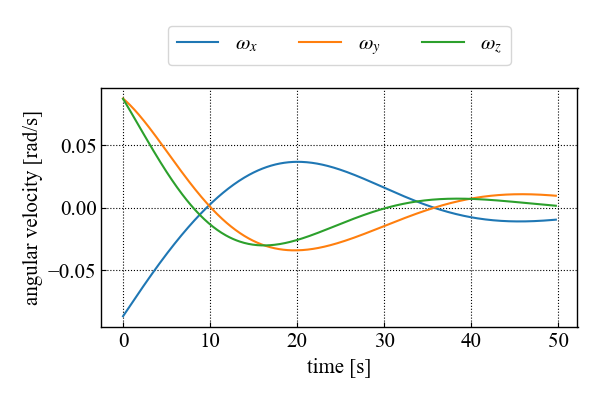
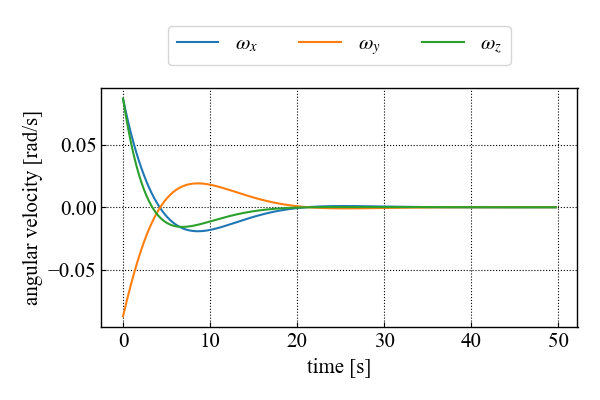
random omega

diff --git a/sac/train.py b/sac/train.py
@@ -483,6 +483,7 @@ def env_adaptive():
     print( "the multi is :" + str(env.multi))
     r = 0
     qe = np.empty((0,4))
+    R = np.empty((0,1))
     q = np.empty((0,4))
     w = np.empty((0,3))
     actions = np.empty((0,3))
@@ -512,8 +513,9 @@ def env_adaptive():
         q=np.append(q,next_state[:4].reshape(1,-1),axis=0)
         qe=np.append(qe,next_error_state[:4].reshape(1,-1),axis=0)
         w=np.append(w,next_error_state[8:11].reshape(1,-1),axis=0)
-        r_hist = np.append(r_hist, np.array([env.r1,env.r2,env.r3,env.r4]).reshape(1,-1),axis=0)
+        r_hist = np.append(r_hist, -np.array([env.r1,env.r2,env.r3,env.r4]).reshape(1,-1),axis=0)
         r += reward
+        R = np.append(R,reward)
     #----------------control law (Adaptive controller)-----------------------
         W = next_error_state[8:11]
         x1 = next_error_state[1:4]
@@ -646,7 +648,8 @@ def env_adaptive():
     plt.plot(np.arange(max_steps-1)*dt, r_hist[:,1],label = r"$\omega$ pnlty")
     plt.plot(np.arange(max_steps-1)*dt, r_hist[:,2],label = r"$\tau$ pnlty")
     plt.plot(np.arange(max_steps-1)*dt, r_hist[:,3],label = r"$\Delta\tau$ pnlty")
-    plt.plot(np.arange(max_steps-1)*dt, np.sum(r_hist,axis = 1),label = r"$toal$",linestyle='dotted')
+    plt.plot(np.arange(max_steps-1)*dt, R, label = r"$toal$",linestyle='dotted')
+    # plt.plot(np.arange(max_steps-1)*dt, np.sum(r_hist,axis = 1),label = r"$toal$",linestyle='dotted')
     # plt.title('Action')
     plt.ylabel('reward')
     plt.xlabel(r'time [s]')

diff --git a/sac/environment.py b/sac/environment.py
@@ -313,7 +313,7 @@ class SatelliteContinuousEnv(gym.Env):
         self.inertia = np.array([[2.683, 0.0, 0.0], \
                                 [0.0, 2.683, 0.0], \
                                 [0.0, 0.0, 1.897]])
-        self.multi = np.random.randint(100,self.max_multi*100)/100
+        self.multi = 10#np.random.randint(100,self.max_multi*100)/100
         self.tg_inertia = self.inertia*self.multi
         self.est_th = self.inertia.flatten()*self.multi/25#np.diag(self.inertia)
         # self.est_th = (self.multi*np.diag(self.inertia))/((self.max_multi+1)*np.diag(self.inertia))
@@ -327,7 +327,7 @@ class SatelliteContinuousEnv(gym.Env):
         # self.startEuler = np.deg2rad(np.array([10,0,0]))
         self.startQuate = self.dcm2quaternion(self.euler2dcm(self.startEuler))
         # self.startOmega = np.array([0,0,0])
-        coef = 1#2*np.random.randint(0,2,size=3)-1
+        coef = 2*np.random.randint(0,2,size=3)-1
         self.startOmega = coef* np.deg2rad(np.array([5,-5,5]))#+ np.random.uniform(-1, 1, size=3))
 
         # 目標値(deg)

diff --git a/td3/train.py b/td3/train.py
@@ -487,7 +487,7 @@ def env_adaptive():
 
     #----------------------control parameters----------------------------
     alpha = 0.5
-    k = 2
+    k = 40
     zeta = 0.2
     D = np.diag([4e-4,1,1,1,5.8e-4,1,1,1,5.2e-4])
     th = env.inertia_comb.flatten()
